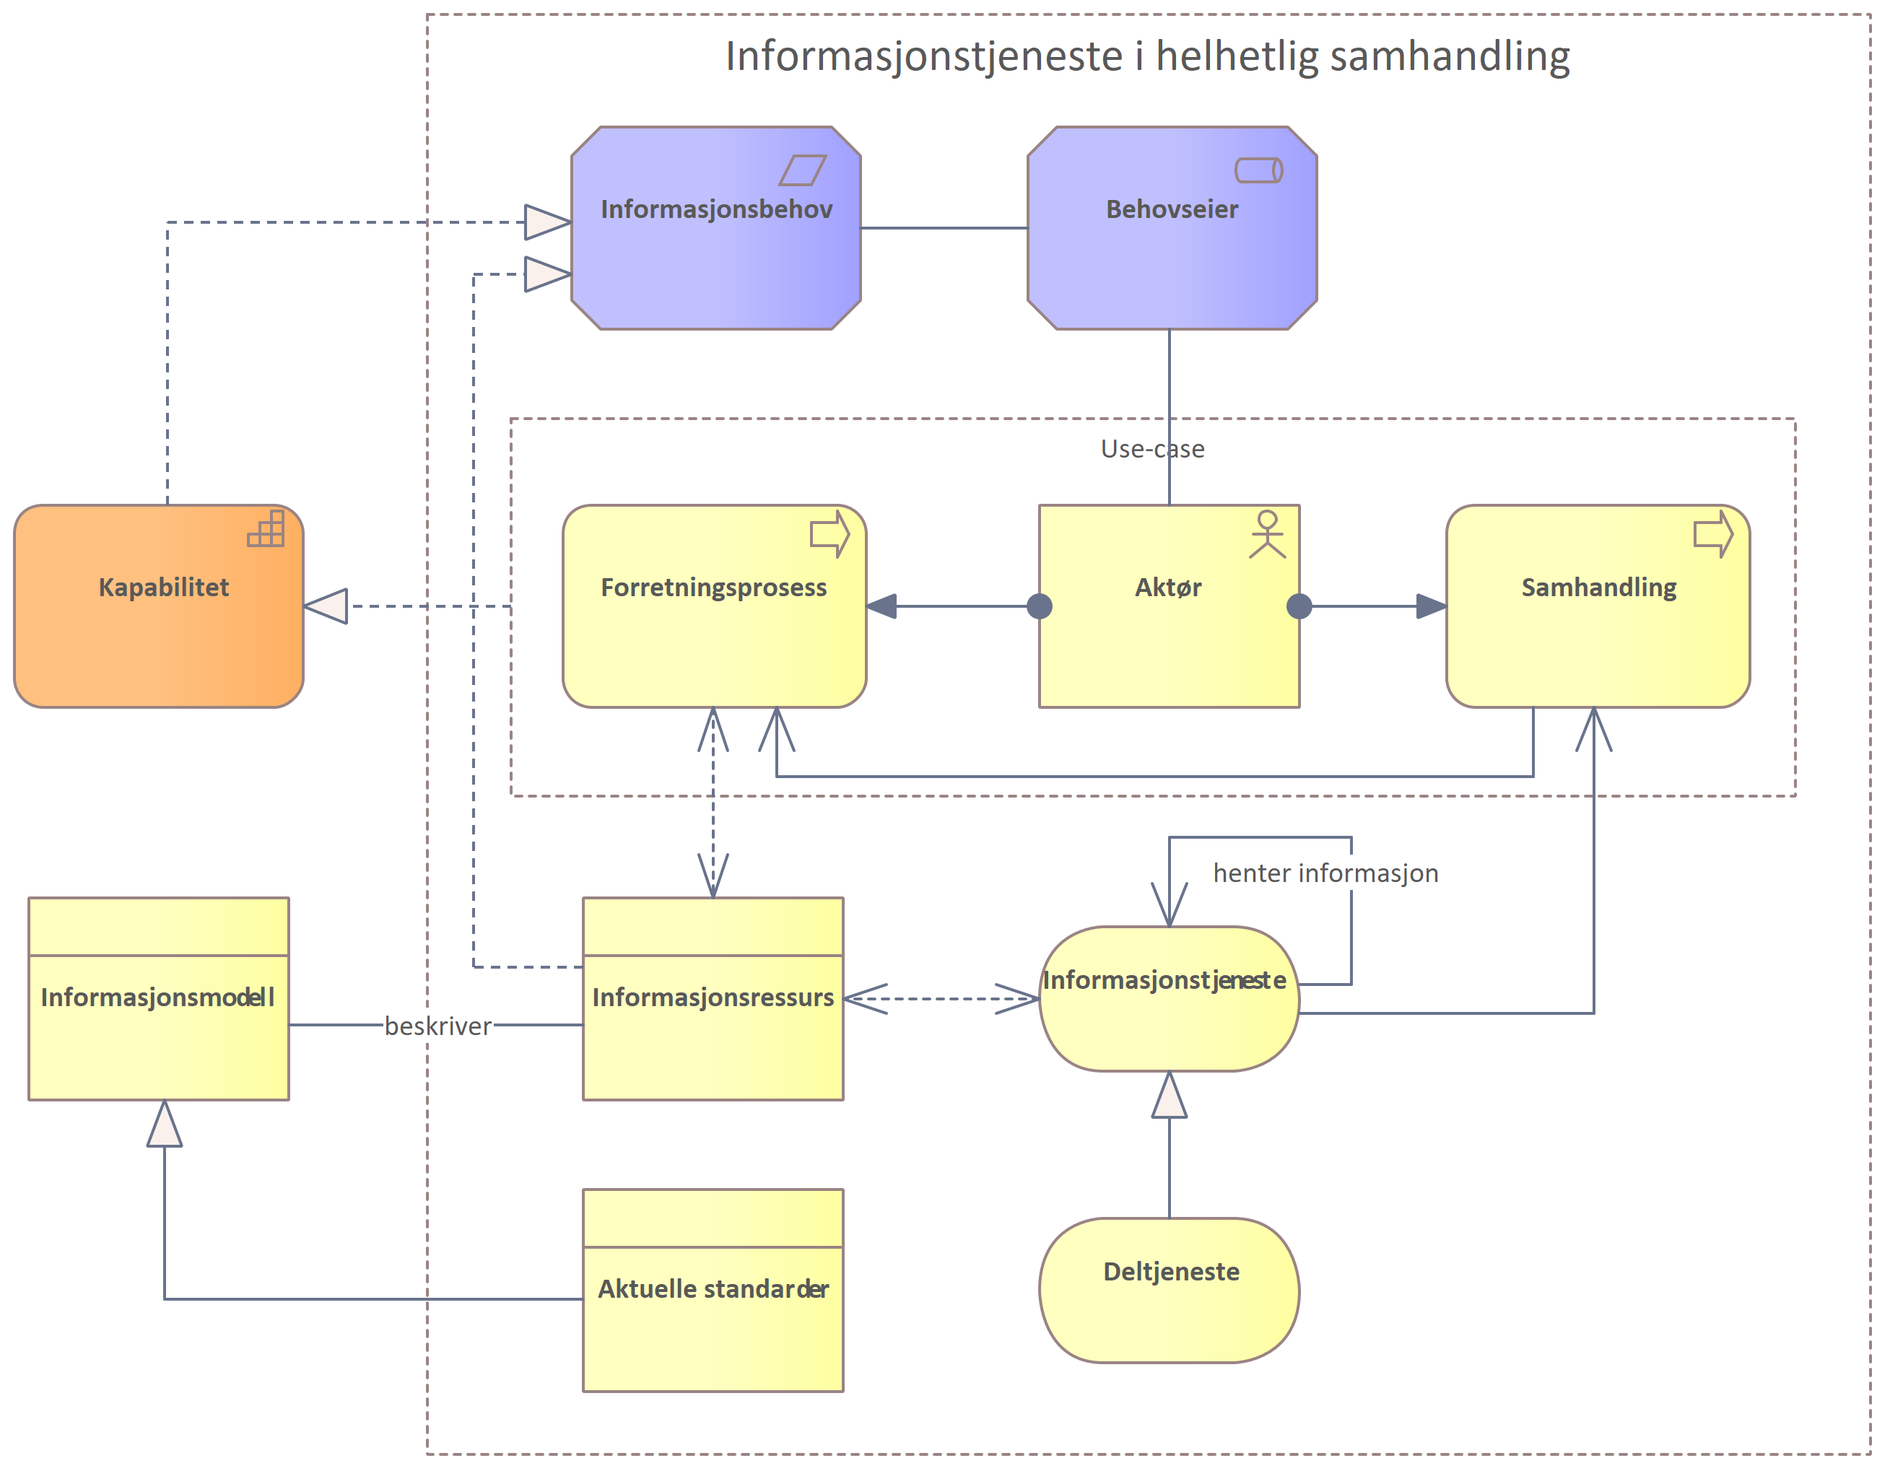
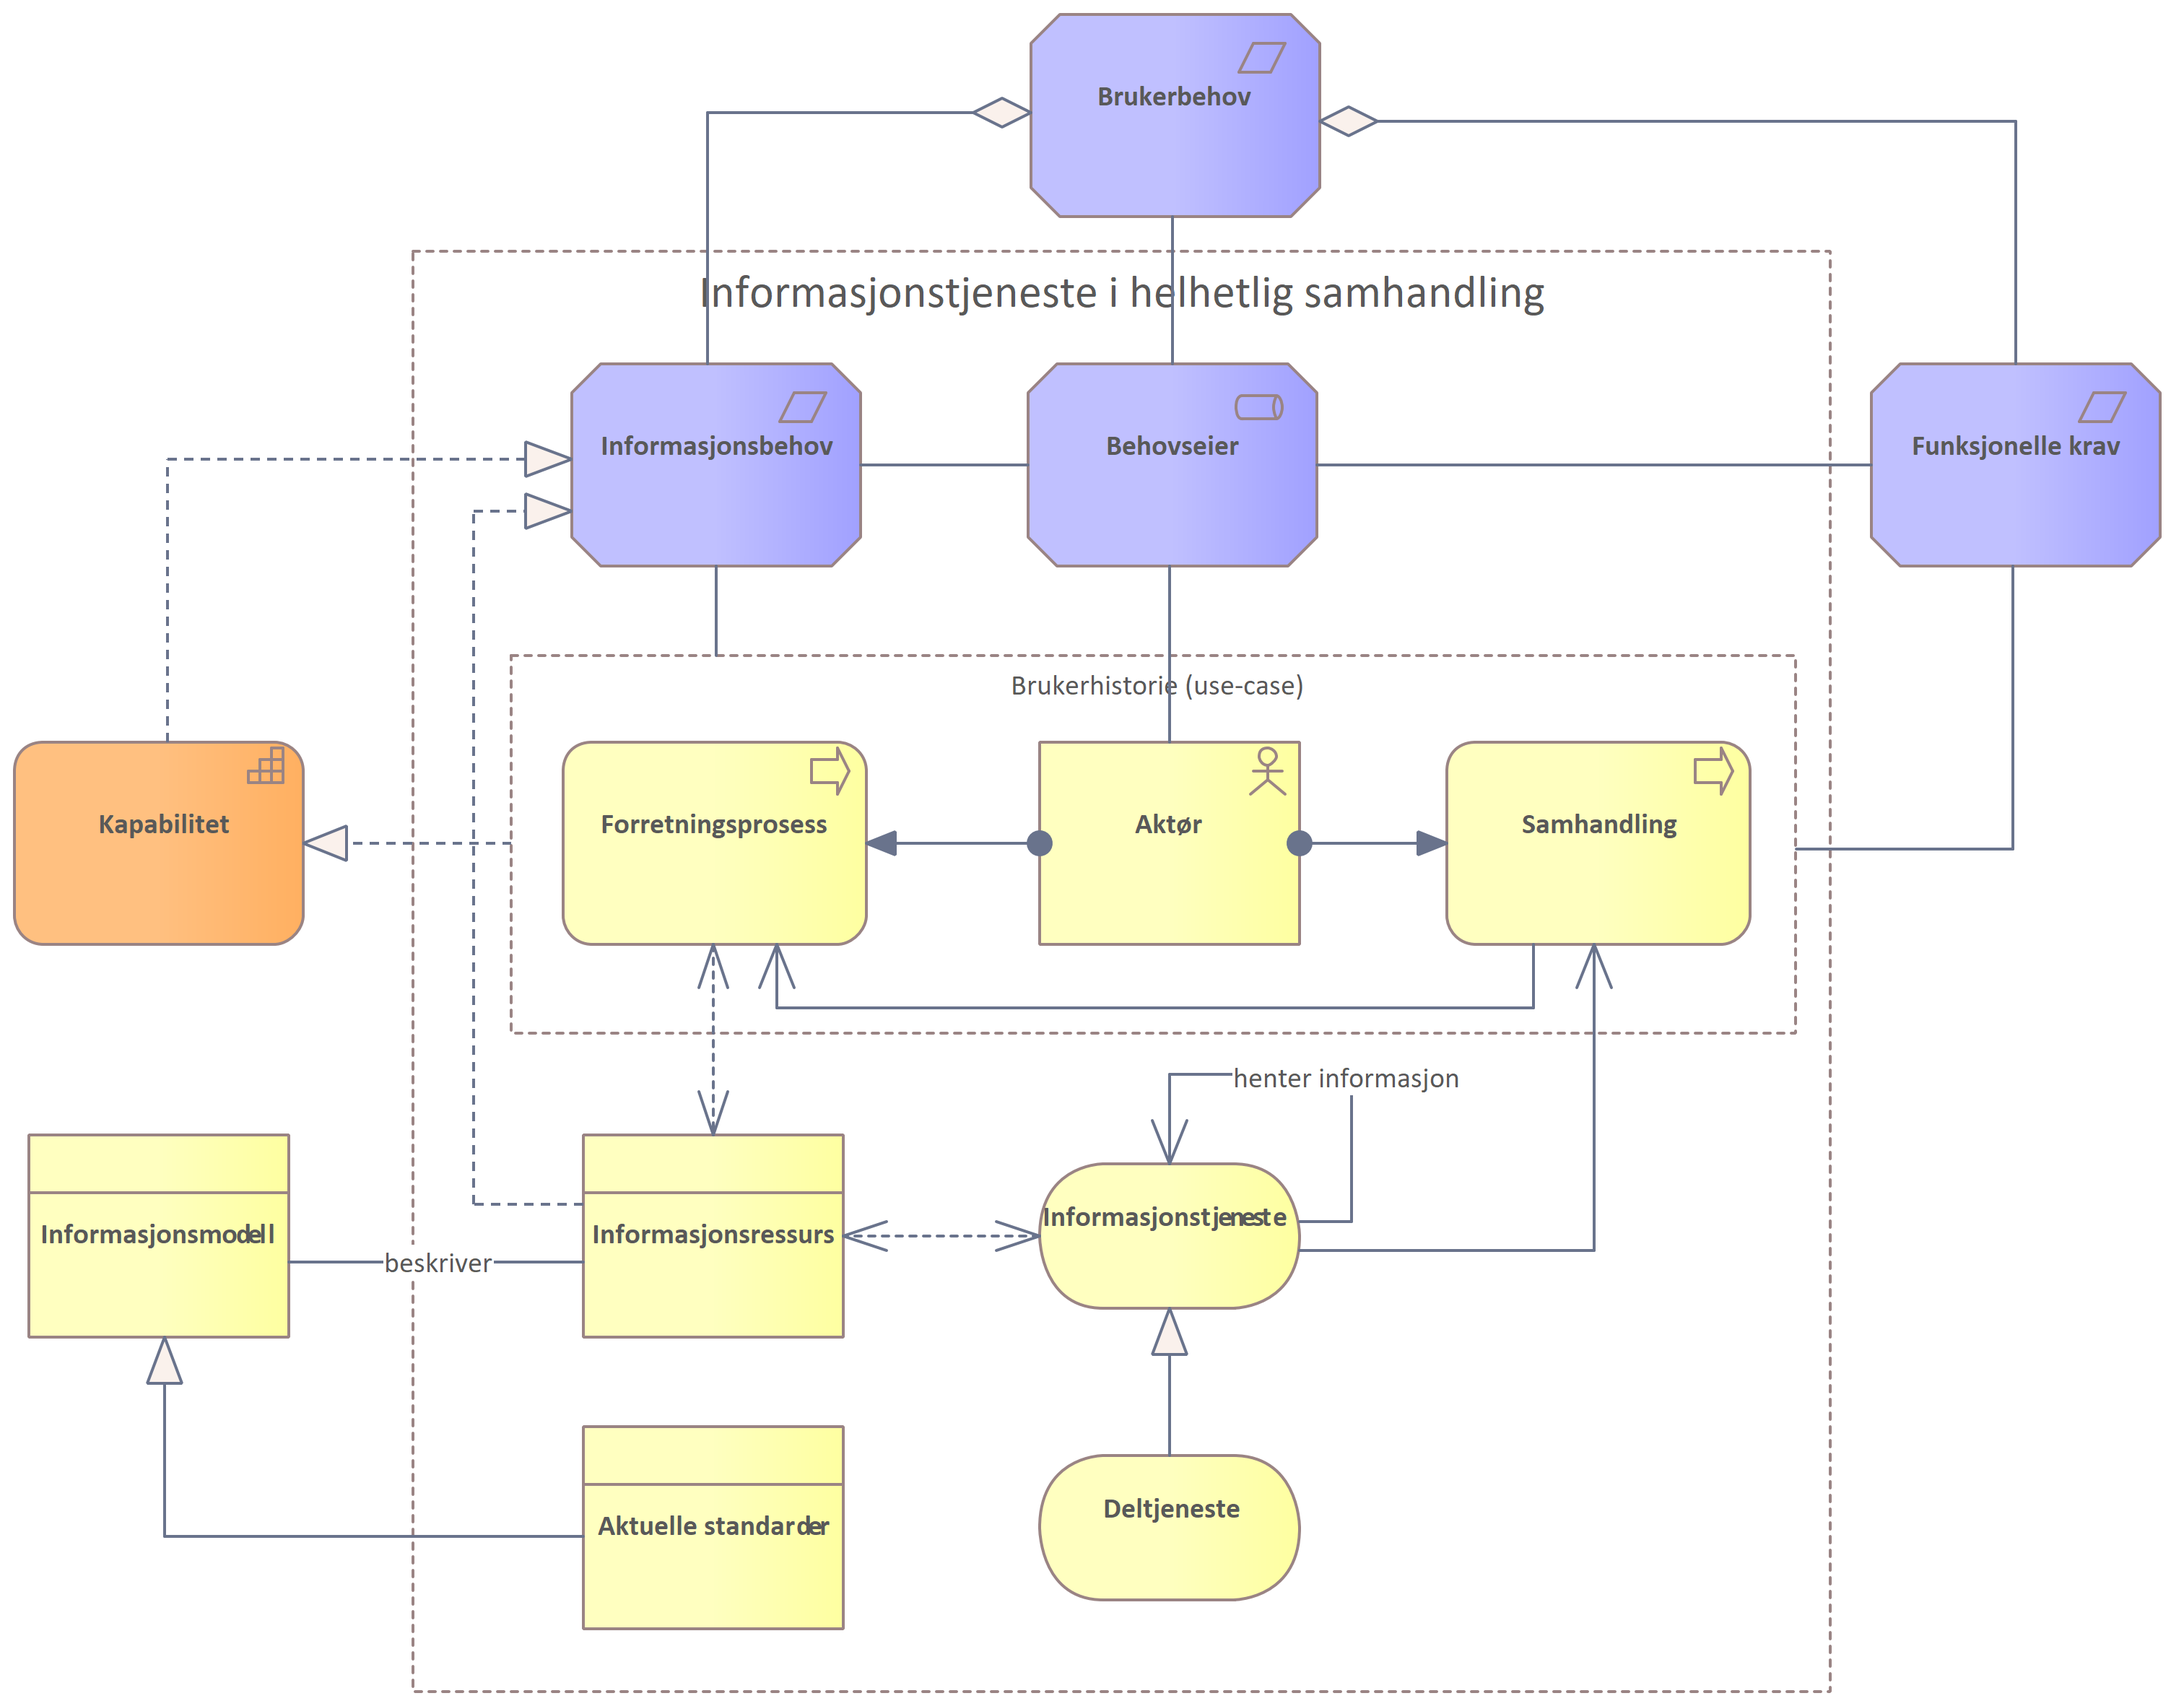
Revisjon av informasjonstjeneste vedlegg

diff --git a/docs/vedlegg/Informasjonstjeneste-meta.md b/docs/vedlegg/Informasjonstjeneste-meta.md
@@ -4,7 +4,7 @@ title: Informasjonstjeneste metamodell
 
 | Status | Version | Maturity | Normative level |
 |:-------------|:------------------|:------|:-------|
-| <span style="background-color:gold">Work in progress</span> | v0.6 | draft  | ikke normert |
+| <span style="background-color:BlueViolet">Prerelease</span> | v0.9 | review | ikke normert |
 
 Et sentralt begrep i forbindelse med helhetlig samhandling og målarkitekturen for datadeling innen DHO er informasjonstjeneste. I sin grunnleggende form er en informasjonstjeneste definert:
 
@@ -24,19 +24,19 @@ I forbindelse med arbeidet for å tilrettelegge for helhetlig samhandling er det
 
 !!! note "Informasjonstjeneste i helhetlig samhandling"
     
-    En informasjonstjeneste er en gruppering av informasjon som kan deles mellom helsepersonell.
+    En informasjonstjeneste er en gruppering av informasjon/informasjonsbehov som kan deles mellom innbygger, helsepersonell og andre aktører via samhandlingsløsningene.
 
-En definisjon av alle de ulike informasjonstjenestene som ble beskrevet i forbindelsem ed helhetlig samhandling ligger i kapittel 4 i [Bilag G2: Helhetlig samhandling (PDF)](https://www.ehelse.no/publikasjoner/sentralt-styringsdokument-akson-helhetlig-samhandling-og-felles-kommunal-journallosning/Bilag%20G2%20Helhetlig%20samhandling.pdf). I sin beskrivelse av de ulike informasjonstjenestene blir fler egenskaper beskrevet: 
+En definisjon av alle de ulike informasjonstjenestene som ble beskrevet i forbindelse med helhetlig samhandling ligger i kapittel 4 i [Bilag G2: Helhetlig samhandling (PDF)](https://www.ehelse.no/publikasjoner/sentralt-styringsdokument-akson-helhetlig-samhandling-og-felles-kommunal-journallosning/Bilag%20G2%20Helhetlig%20samhandling.pdf). I sin beskrivelse av de ulike informasjonstjenestene blir flere egenskaper beskrevet:  
 
-* Aktører som har behov
-* Informasjonsbehov som understøttes
-* Sammenheng med andre informasjonstjenester
-* Deltjenester
-* Brukerhistorier som benytter informasjonstjenesten
-* Relevante standarder for realisering
+* Aktører som har behovet.
+* Informasjonsbehov som understøttes av informasjonstjenesten.
+* Sammenheng med andre informasjonstjenester.
+* Deltjenester for å ivareta sammensatte informasjonsbehov.
+* Brukerhistorier som understøttes av informasjonstjenesten.
+* Relevante standarder for realisering.
 
 Dette fører til en mer kompleks metamodell for informasjonstjenester i forbindelse med helhetlig samhandling.
 
-![Metamodell for informasjonstjenester i helhetlig samhandling](../img/informasjonstjeneste-metamodell.png){widt=500}
+[![Metamodell for informasjonstjenester i helhetlig samhandling](../img/informasjonstjeneste-metamodell.png)](../img/informasjonstjeneste-metamodell.png){widt=500}
 
 I arbeidet med målarkitektur for datadeling innen DHO er det den komplekse modellen vi forholder oss til. Det vil si at vi legger beskrivelsene av de ulike informasjonstjenesten til grunn når vi analyserer informasjonsbehovet i tilknytning til DHO.

diff --git a/docs/vedlegg/Begreper.md b/docs/vedlegg/Begreper.md
@@ -16,7 +16,7 @@ title: Begreper
 |Data fra pasient|I målarkitekturen inkluderer dette data fra sensorer og medisinsk utstyr og pasientrapporterte data som symptomer, funksjon og målinger|
 |DHO-system|IT-fagsystem/ løsning fra ulike leverandører som benyttes i oppfølging av pasienter som  mottar digital hjemmeoppfølging, og kan benyttes sammen med måleutstyr, kartleggingsverktøy og skjema. Omtales også som medisinsk utstyr (se kilde: lov om medisinsk utstyr §3 for fullstendig beskrivelse)|
 |Digital Samhandling|Samhandling mellom aktører som benytter ulike IKT-systemer på digital form (for eksempel meldingsutveksling, data- eller dokument-deling)|
-|Informasjonstjeneste|Informasjonstjenester, er en samlebetegnelse for alle typer tjenester som tilbyr eller manipulerer informasjonsressurser i form av en definert tjeneste. I helhetlig samhandling brukes en mer generell definisjon: En informasjonstjeneste er en gruppering av informasjon som kan deles mellom helsepersonell.</br>En informasjonstjeneste kan også en realiseres i form av en applikasjons komponent (IT-tjeneste) som gjør det mulig å dele et utvalg av helseinformasjon som for eksempel legemidler og egenbehandlingsplan. Ulike aktører kan knytte seg til informasjonstjenester for å få tilgang til informasjon fra andre, tilgjengeliggjøre informasjon fra egne løsninger eller oppdatere informasjon i sentrale kilder.|
+|Informasjonstjeneste|Informasjonstjenester, er en samlebetegnelse for alle typer tjenester som tilbyr eller manipulerer informasjonsressurser i form av en definert tjeneste. I helhetlig samhandling brukes en mer generell definisjon: En informasjonstjeneste er en gruppering av informasjon/informasjonsbehov som kan deles mellom innbygger, helsepersonell og andre aktører via samhandlingsløsningene. </br> En informasjonstjeneste kan også en realiseres i form av en applikasjons komponent (IT-tjeneste) som gjør det mulig å dele et utvalg av helseinformasjon som for eksempel legemidler og egenbehandlingsplan. Ulike aktører kan knytte seg til informasjonstjenester for å få tilgang til informasjon fra andre, tilgjengeliggjøre informasjon fra egne løsninger eller oppdatere informasjon i sentrale kilder.|
 |Informasjonsressurs|Alle former for logisk avgrenset elektronisk informasjon som eksisterer i virksomheten|
 |Felleskomponent|Defineres som avgrenset del av en IT-løsning som kan gjenbrukes i flere IT-løsninger for å dekke felles behov. De kan brukes på tvers av e-helseløsninger, virksomheter og forvaltningsnivå, og kan enten være frivillig eller påkrevd å bruke.|
 | Fellestjeneste | Organisering av en tjeneste, slik at en virksomhet utfører aktiviteter på vegne av flere, for å gi en volumfordel. En fellestjeneste kan velge å bruke felleskomponenter som del av løsningen de bruker for å levere tjenesten.|
